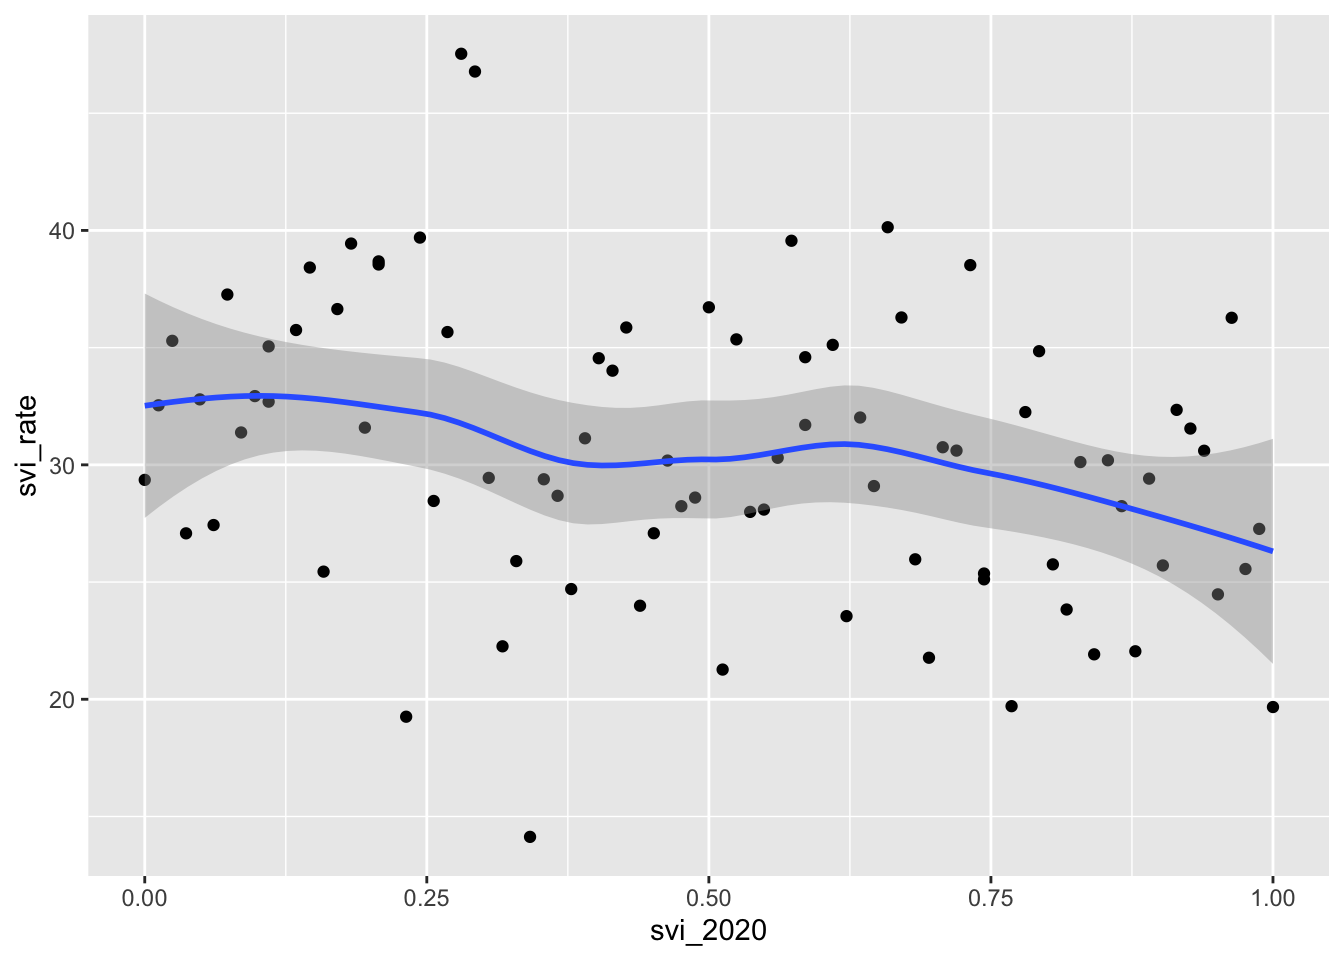
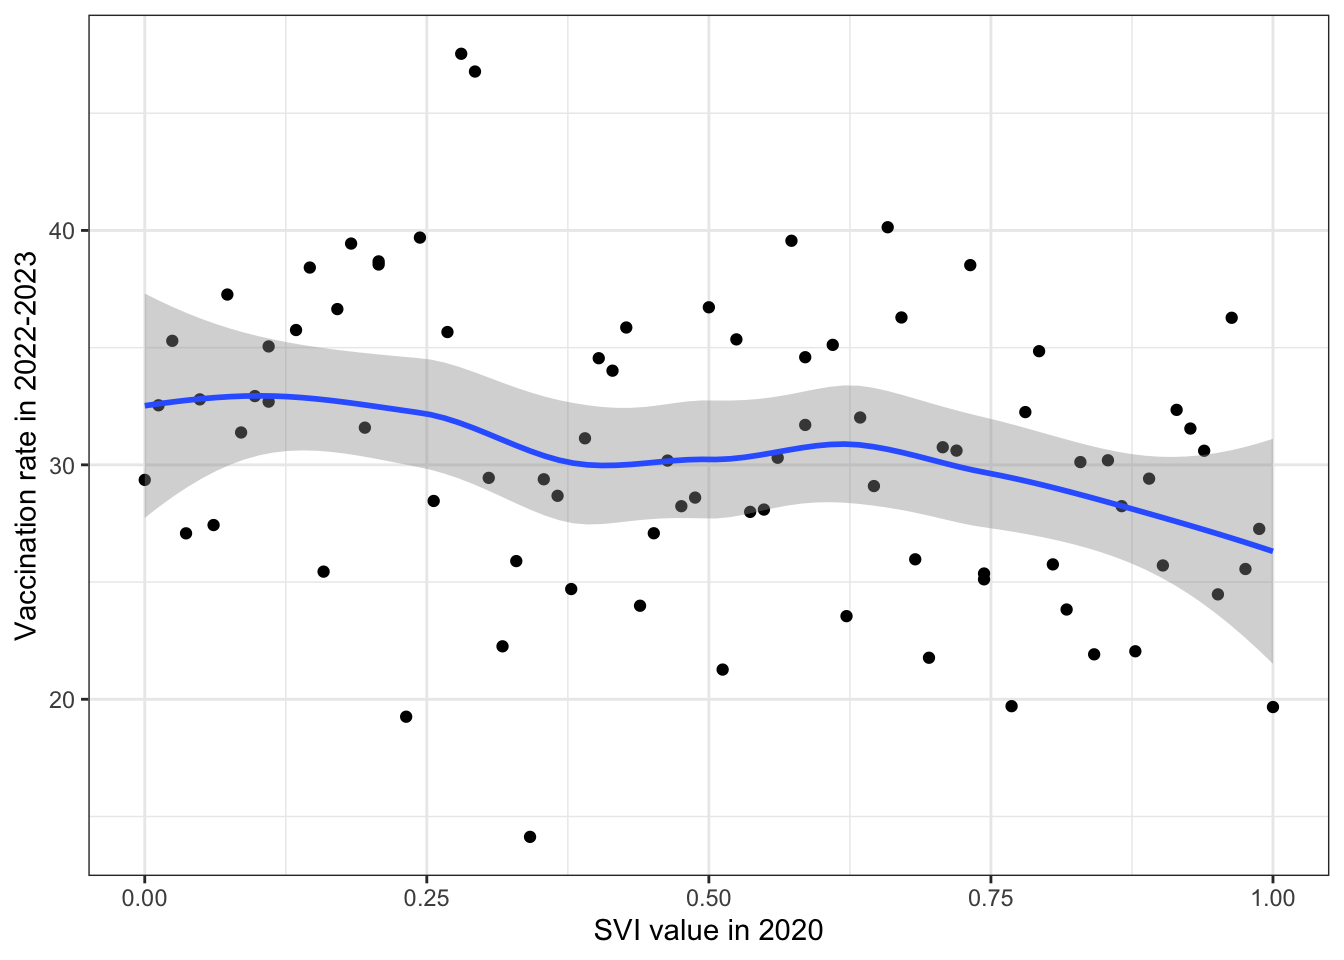
Add SII/RII

diff --git a/code/prelim-tables.html b/code/prelim-tables.html
@@ -7,7 +7,7 @@
 <meta name="viewport" content="width=device-width, initial-scale=1.0, user-scalable=yes">
 
 <meta name="author" content="Sam Harper">
-<meta name="dcterms.date" content="2023-09-18">
+<meta name="dcterms.date" content="2023-09-19">
 
 <title>Preliminary tables</title>
 <style>
@@ -101,7 +101,7 @@ pre > code.sourceCode > span > a:first-child::before { text-decoration: underlin
     <div>
     <div class="quarto-title-meta-heading">Published</div>
     <div class="quarto-title-meta-contents">
-      <p class="date">September 18, 2023</p>
+      <p class="date">September 19, 2023</p>
     </div>
   </div>
   
@@ -927,16 +927,38 @@ Concentration index
 <details>
 <summary>Code</summary>
 <div class="sourceCode cell-code" id="cb18"><pre class="sourceCode r code-with-copy"><code class="sourceCode r"><span id="cb18-1"><a href="#cb18-1" aria-hidden="true" tabindex="-1"></a>f1 <span class="sc">%&gt;%</span> <span class="fu">ggplot</span>(<span class="fu">aes</span>(<span class="at">x =</span> svi_2020, <span class="at">y =</span> svi_rate)) <span class="sc">+</span></span>
-<span id="cb18-2"><a href="#cb18-2" aria-hidden="true" tabindex="-1"></a>  <span class="fu">geom_point</span>() <span class="sc">+</span> <span class="fu">geom_smooth</span>()</span></code><button title="Copy to Clipboard" class="code-copy-button"><i class="bi"></i></button></pre></div>
+<span id="cb18-2"><a href="#cb18-2" aria-hidden="true" tabindex="-1"></a>  <span class="fu">geom_point</span>() <span class="sc">+</span> <span class="fu">geom_smooth</span>() <span class="sc">+</span></span>
+<span id="cb18-3"><a href="#cb18-3" aria-hidden="true" tabindex="-1"></a>  <span class="fu">theme_bw</span>() <span class="sc">+</span> <span class="fu">labs</span>(<span class="at">y =</span> <span class="st">"Vaccination rate in 2022-2023"</span>,</span>
+<span id="cb18-4"><a href="#cb18-4" aria-hidden="true" tabindex="-1"></a>    <span class="at">x =</span> <span class="st">"SVI value in 2020"</span>)</span></code><button title="Copy to Clipboard" class="code-copy-button"><i class="bi"></i></button></pre></div>
 </details>
-<div class="cell-output cell-output-stderr">
-<pre><code>`geom_smooth()` using method = 'loess' and formula = 'y ~ x'</code></pre>
-</div>
 <div class="cell-output-display">
 <p><img src="prelim-tables_files/figure-html/corr-1.png" class="img-fluid" width="672"></p>
 </div>
 </div>
 <p>Counties with the highest SVI have moderately lower values of vaccination, but it is not dramatic.</p>
+<p>Another potential option for estimating inequalities is the Slope Index of Inequality (SII) and its relative analogue, the Relative Index of Inequality (RII). These are also, like the Concentration Index, rank-based measures of inequality that capture the strength of the association between deprivation and health outcomes. These are regression-based measures that are derived from regressing the outcome variable on the ridit score (i.e.&nbsp;the rank of each county in the cumulative distribution of SVI or SDI). Because the ridit score ranges from 0 to 1, it has a straightforward regression-based interpretation: the coefficient on the rank variable expresses the average change in the outcome for a 1-unit change in the ridit score, which is moving from the bottom to the top of the cumulative distribution of disadvantage.</p>
+<p>The basic plot can be seen below:</p>
+<div class="cell">
+<details>
+<summary>Code</summary>
+<div class="sourceCode cell-code" id="cb19"><pre class="sourceCode r code-with-copy"><code class="sourceCode r"><span id="cb19-1"><a href="#cb19-1" aria-hidden="true" tabindex="-1"></a>t2 <span class="ot">&lt;-</span> f1 <span class="sc">%&gt;%</span></span>
+<span id="cb19-2"><a href="#cb19-2" aria-hidden="true" tabindex="-1"></a>  <span class="fu">arrange</span>(<span class="fu">desc</span>(svi_2020)) <span class="sc">%&gt;%</span></span>
+<span id="cb19-3"><a href="#cb19-3" aria-hidden="true" tabindex="-1"></a>  <span class="fu">mutate</span>(<span class="at">disadv =</span> <span class="dv">1</span> <span class="sc">-</span> svi_2020,</span>
+<span id="cb19-4"><a href="#cb19-4" aria-hidden="true" tabindex="-1"></a>  <span class="at">ppop =</span> <span class="dv">1</span><span class="sc">/</span><span class="fu">length</span>(disadv),</span>
+<span id="cb19-5"><a href="#cb19-5" aria-hidden="true" tabindex="-1"></a>  <span class="at">ridit =</span> (<span class="fu">cumsum</span>(ppop) <span class="sc">-</span> <span class="fl">0.5</span> <span class="sc">*</span> ppop)<span class="sc">/</span><span class="fu">sum</span>(ppop)) </span>
+<span id="cb19-6"><a href="#cb19-6" aria-hidden="true" tabindex="-1"></a></span>
+<span id="cb19-7"><a href="#cb19-7" aria-hidden="true" tabindex="-1"></a>t2 <span class="sc">%&gt;%</span></span>
+<span id="cb19-8"><a href="#cb19-8" aria-hidden="true" tabindex="-1"></a>  <span class="fu">ggplot</span>(<span class="fu">aes</span>(<span class="at">x =</span> ridit, <span class="at">y =</span> svi_rate)) <span class="sc">+</span></span>
+<span id="cb19-9"><a href="#cb19-9" aria-hidden="true" tabindex="-1"></a>    <span class="fu">geom_point</span>() <span class="sc">+</span> </span>
+<span id="cb19-10"><a href="#cb19-10" aria-hidden="true" tabindex="-1"></a>    <span class="fu">geom_smooth</span>(<span class="at">method=</span>lm , <span class="at">color=</span><span class="st">"#377eb8"</span>, <span class="at">se=</span>T) <span class="sc">+</span></span>
+<span id="cb19-11"><a href="#cb19-11" aria-hidden="true" tabindex="-1"></a>  <span class="fu">labs</span>(<span class="at">x =</span> <span class="st">"Position in cumulative distribution of SVI"</span>,</span>
+<span id="cb19-12"><a href="#cb19-12" aria-hidden="true" tabindex="-1"></a>       <span class="at">y =</span> <span class="st">"Vaccination rate"</span>) <span class="sc">+</span></span>
+<span id="cb19-13"><a href="#cb19-13" aria-hidden="true" tabindex="-1"></a>  <span class="fu">theme_bw</span>()</span></code><button title="Copy to Clipboard" class="code-copy-button"><i class="bi"></i></button></pre></div>
+</details>
+<div class="cell-output-display">
+<p><img src="prelim-tables_files/figure-html/sii-plot-1.png" class="img-fluid" width="672"></p>
+</div>
+</div>
 </section>
 
 </main>
